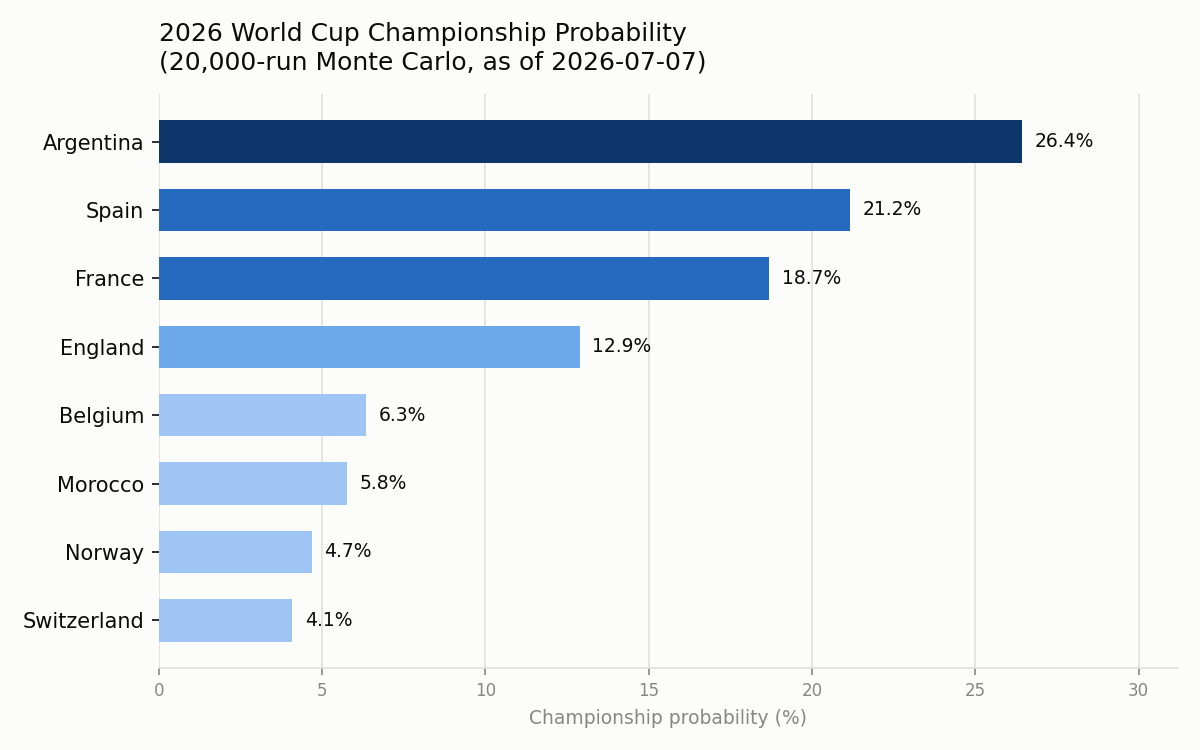
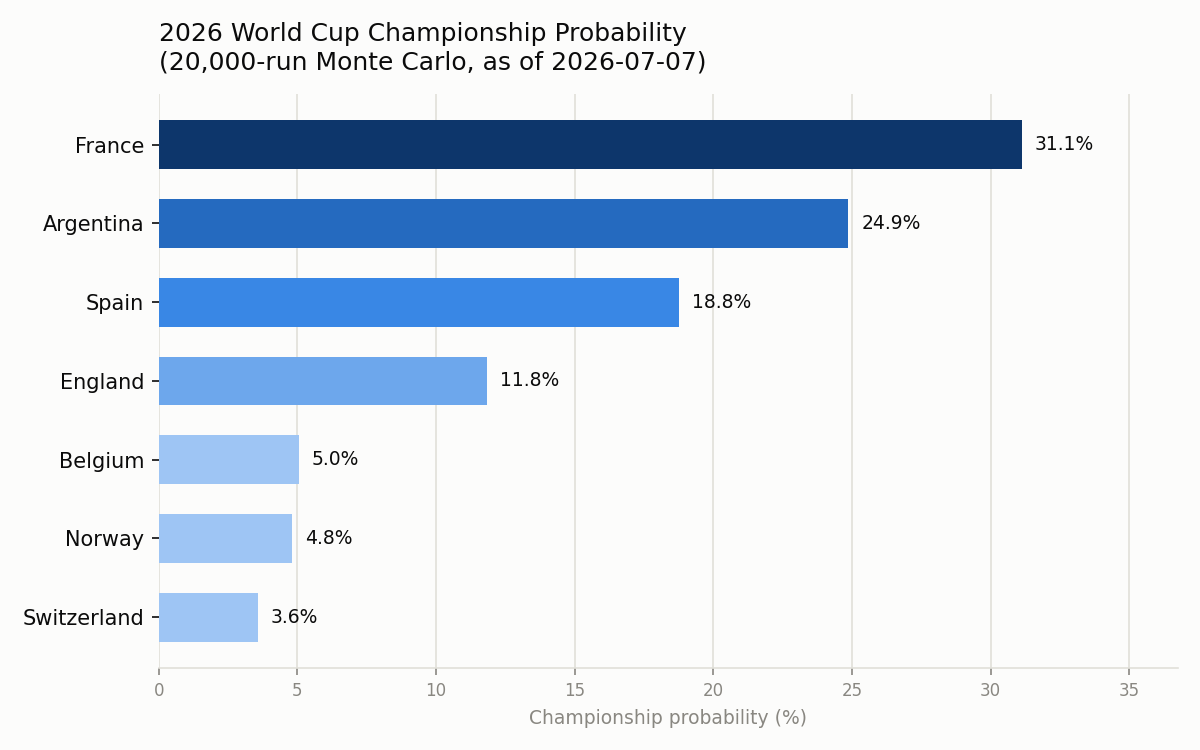
France beats Morocco 2-0, into the semifinal
Mbappe and Dembele scored, France advances to face the Spain/Belgium
winner in Dallas on July 14. Model had France at 63.6 percent before
kickoff, so this one's a correct call. Patched the result in, reran
the pipeline, and reworked the bracket simulation so France's
semifinal slot is locked in while the other three quarterfinals still
get simulated as coin flips.

France is now the championship favorite at 31.1 percent, up from
18.7 before this match, mostly just from clearing a knockout round
that everyone else still has to get through.

diff --git a/src/simulate.py b/src/simulate.py
@@ -3,20 +3,22 @@ Monte Carlo forward simulation of the rest of the 2026 World Cup, using the
 trained model's win probabilities and the confirmed bracket tree.
 
 Bracket confirmed via live web search, cross-checked across ESPN, Fox Sports,
-Olympics.com, Al Jazeera, and CNN. All of the Round of 16 finished on 2026-07-07
-(Switzerland beat Colombia 4-3 on penalties after a 0-0 draw; Argentina beat
-Egypt 3-2). The four quarterfinals below are confirmed matchups, still
-unplayed as of this run:
+FIFA.com, CNN, and NBC News. Status as of this run (2026-07-10):
 
-  QF1 (Boston,  Jul 9):  France     vs Morocco
-  QF2 (LA,      Jul 10): Spain      vs Belgium
-  QF3 (Miami,   Jul 11): England    vs Norway
-  QF4 (KC,      Jul 11/12): Argentina vs Switzerland
+  QF1 (Boston,  Jul 9):  France 2-0 Morocco -- DONE, France advances
+  QF2 (LA,      Jul 10): Spain      vs Belgium     -- pending
+  QF3 (Miami,   Jul 11): England    vs Norway      -- pending
+  QF4 (KC,      Jul 11/12): Argentina vs Switzerland -- pending
 
-  SF1 (Dallas,   Jul 14): Winner QF1 vs Winner QF2
+  SF1 (Dallas,   Jul 14): France vs Winner QF2
   SF2 (Atlanta,  Jul 15): Winner QF3 vs Winner QF4
 
   Final (East Rutherford, Jul 19): Winner SF1 vs Winner SF2
+
+A "slot" below is either a confirmed team name (a string) or a match still to
+be played (a tuple of two team names). Confirmed slots skip straight through;
+pending slots get a coin flip using the model's win probability each
+simulation run.
 
 For a knockout match with no replay, a draw isn't a valid final outcome (it
 goes to extra time/penalties). We convert the model's 3-way (home/draw/away)
@@ -39,12 +41,12 @@ from load_data import load_results, played_mask as pm
 N_SIMULATIONS = 20000
 RNG_SEED = 42
 
-QUARTERFINALS = [
-    ("France", "Morocco"),
-    ("Spain", "Belgium"),
-    ("England", "Norway"),
-    ("Argentina", "Switzerland"),
-]
+SF1_SLOTS = ["France", ("Spain", "Belgium")]
+SF2_SLOTS = [("England", "Norway"), ("Argentina", "Switzerland")]
+
+
+def pending_matches(slots):
+    return [s for s in slots if isinstance(s, tuple)]
 
 
 def win_probability(team_a, team_b, elo, form, model):
@@ -82,20 +84,26 @@ def build_matchup_probabilities(teams, elo, form, model):
     return probs
 
 
-def simulate_bracket(rng, probs, quarterfinals):
-    def play(a, b):
-        return a if rng.random() < probs[(a, b)] else b
+def resolve(rng, probs, slot):
+    if isinstance(slot, str):
+        return slot
+    a, b = slot
+    return a if rng.random() < probs[(a, b)] else b
 
-    qf_winners = [play(a, b) for a, b in quarterfinals]
 
-    sf1 = (qf_winners[0], qf_winners[1])
-    sf2 = (qf_winners[2], qf_winners[3])
-    sf_winners = [play(*sf1), play(*sf2)]
+def simulate_bracket(rng, probs):
+    sf1_teams = [resolve(rng, probs, s) for s in SF1_SLOTS]
+    sf2_teams = [resolve(rng, probs, s) for s in SF2_SLOTS]
+    semifinalists = sf1_teams + sf2_teams
 
-    champion = play(*sf_winners)
+    finalist_1 = resolve(rng, probs, tuple(sf1_teams))
+    finalist_2 = resolve(rng, probs, tuple(sf2_teams))
+    finalists = [finalist_1, finalist_2]
+
+    champion = resolve(rng, probs, tuple(finalists))
     return {
-        "semifinalists": qf_winners,   # reached the semifinal (won their QF)
-        "finalists": sf_winners,       # reached the final (won their SF)
+        "semifinalists": semifinalists,
+        "finalists": finalists,
         "champion": champion,
     }
 
@@ -111,16 +119,24 @@ def main():
         models = pickle.load(f)
     xgb = models["xgb"]
 
-    teams_in_play = set()
-    for a, b in QUARTERFINALS:
-        teams_in_play.add(a)
-        teams_in_play.add(b)
-    remaining_teams = list(teams_in_play)
+    # Every team that could plausibly meet every other team in play (across QF,
+    # SF, and Final matchups) needs a pairwise probability, since who plays whom
+    # in the semifinal and final depends on how the pending quarterfinals resolve.
+    all_teams = set()
+    for slot in SF1_SLOTS + SF2_SLOTS:
+        if isinstance(slot, tuple):
+            all_teams.update(slot)
+        else:
+            all_teams.add(slot)
+    remaining_teams = list(all_teams)
 
-    print("Win probability for the confirmed quarterfinals:")
+    print("Win probability for the confirmed quarterfinals still to be played:")
     probs = build_matchup_probabilities(remaining_teams, elo, form, xgb)
-    for a, b in QUARTERFINALS:
+    for a, b in pending_matches(SF1_SLOTS) + pending_matches(SF2_SLOTS):
         print(f"  {a:12s} vs {b:12s}  ->  {a}: {probs[(a,b)]:.1%}   {b}: {probs[(b,a)]:.1%}")
+    # probs already covers every pair among remaining_teams (built above), which
+    # is what resolve() needs for cross-matchup pairings like France vs whoever
+    # wins Spain/Belgium, since the semifinal opponent isn't fixed in advance.
 
     rng = np.random.default_rng(RNG_SEED)
     champion_counts = defaultdict(int)
@@ -128,7 +144,7 @@ def main():
     semifinalist_counts = defaultdict(int)
 
     for _ in range(N_SIMULATIONS):
-        sim = simulate_bracket(rng, probs, QUARTERFINALS)
+        sim = simulate_bracket(rng, probs)
         champion_counts[sim["champion"]] += 1
         for t in sim["finalists"]:
             finalist_counts[t] += 1
@@ -136,8 +152,8 @@ def main():
             semifinalist_counts[t] += 1
 
     table = []
-    all_teams = set(champion_counts) | set(finalist_counts) | set(semifinalist_counts)
-    for team in all_teams:
+    all_result_teams = set(champion_counts) | set(finalist_counts) | set(semifinalist_counts)
+    for team in all_result_teams:
         table.append({
             "team": team,
             "semifinal_pct": 100 * semifinalist_counts[team] / N_SIMULATIONS,
@@ -154,7 +170,8 @@ def main():
         json.dump({
             "n_simulations": N_SIMULATIONS,
             "rng_seed": RNG_SEED,
-            "confirmed_quarterfinals": QUARTERFINALS,
+            "sf1_slots": [list(s) if isinstance(s, tuple) else s for s in SF1_SLOTS],
+            "sf2_slots": [list(s) if isinstance(s, tuple) else s for s in SF2_SLOTS],
         }, f, indent=2)
     print("\nSaved: results/championship_probabilities.csv, results/simulation_meta.json")
 

diff --git a/src/load_data.py b/src/load_data.py
@@ -23,6 +23,9 @@ Sources for patched results (cross-checked across 2+ independent outlets each):
   Switzerland 0-0 Colombia   - ESPN, Al Jazeera, CNN, NBC News, FIFA.com
                                 (2026-07-07); Switzerland won 4-3 on penalties
                                 and advances to the quarterfinals
+  France 2-0 Morocco         - FIFA.com, ESPN, Fox Sports, CNN, NBC News
+                                (2026-07-09); France advances to face the
+                                Spain/Belgium winner in the semifinal
 """
 import pandas as pd
 
@@ -36,6 +39,7 @@ KNOWN_2026_RESULT_PATCHES = [
     ("2026-07-06", "United States", "Belgium", 1, 4),
     ("2026-07-06", "Argentina", "Egypt", 3, 2),
     ("2026-07-06", "Switzerland", "Colombia", 0, 0),  # won 4-3 on penalties
+    ("2026-07-09", "France", "Morocco", 2, 0),
 ]
 
 # Round of 16 matches decided on penalties: (date, home_team, away_team, shootout_winner).

diff --git a/README.md b/README.md
@@ -10,23 +10,26 @@ First run: July 7, 2026. The final is July 19. This README gets updated as
 real results come in, so you can watch the model get graded live instead of
 taking my word for it.
 
-## Where things stand right now (last updated July 9, 2026)
+## Where things stand right now (last updated July 10, 2026)
 
 The Round of 16 is done. All 16 matches played, including two nail-biters:
 Argentina came back from 2-0 down to beat Egypt 3-2, and Switzerland needed
 penalties to get past Colombia after 120 scoreless minutes.
 
-The quarterfinals are set and none have been played yet:
+The first quarterfinal is also done: **France beat Morocco 2-0** in Boston,
+Mbappé and Dembélé with the goals. France is through to the semifinal in
+Dallas on July 14, where they'll play whoever wins Spain vs Belgium.
 
-- **France vs Morocco**, July 9, Boston
+Three quarterfinals are still to be played:
+
 - **Spain vs Belgium**, July 10, Los Angeles
 - **England vs Norway**, July 11, Miami
 - **Argentina vs Switzerland**, July 11 or 12, Kansas City
 
 Everything below reflects that state. A scheduled job re-runs this whole
-project after the quarterfinals, again after the semifinals, and once more
-after the final, so the numbers keep catching up to reality without me
-manually babysitting it.
+project once the rest of the quarterfinals wrap up, again after the
+semifinals, and once more after the final, so the numbers keep catching up
+to reality without me manually babysitting it.
 
 ## How it actually works
 
@@ -81,12 +84,12 @@ dataset, and guessing randomly among the three outcomes gets you 33.3%. So
 the model is doing real work, just don't expect it to be right every time.
 Football is famously hard to predict, which is most of why it's fun to watch.
 
-### This exact World Cup, 96 matches played (group stage through Round of 16)
+### This exact World Cup, 97 matches played (group stage through the first quarterfinal)
 
 | Model | Accuracy | Log-loss |
 |---|---|---|
-| Logistic regression | 63.5% | 0.854 |
-| XGBoost | **64.6%** | **0.846** |
+| Logistic regression | 63.9% | 0.852 |
+| XGBoost | **64.9%** | **0.844** |
 
 Slightly better than the generic numbers, which is a good sign, not a red
 flag. It means the model isn't just memorizing history, it's picking up on
@@ -95,16 +98,17 @@ tournament. Full match-by-match predictions are in
 [`results/wc2026_backtest_detail.csv`](results/wc2026_backtest_detail.csv) if
 you want to see every call, right and wrong.
 
-Two Round of 16 calls worth calling out honestly: the model correctly picked
+A couple of calls worth flagging honestly: the model correctly picked
 Argentina to beat Egypt, but leaned slightly toward Colombia in a match that
-ended level and went to penalties. Draws are the hardest outcome to call in
-this sport, and this model is no exception.
+ended level and went to penalties. It also correctly called France over
+Morocco, and by a healthy margin (50% vs 24%). Draws are still the hardest
+outcome to predict in this sport, and this model is no exception.
 
 ### Quarterfinal win probabilities
 
-| Match | Model says |
+| Match | Result |
 |---|---|
-| France vs Morocco | France 63.6%, Morocco 36.4% |
+| France vs Morocco | **France won 2-0.** Model had France 63.6% before kickoff. Correct. |
 | Spain vs Belgium | Spain 64.4%, Belgium 35.6% |
 | England vs Norway | England 61.6%, Norway 38.4% |
 | Argentina vs Switzerland | Argentina 72.4%, Switzerland 27.6% |
@@ -115,27 +119,27 @@ this sport, and this model is no exception.
 
 | Team | Reaches semis | Reaches final | Wins it all |
 |---|---|---|---|
-| Argentina | 72.8% | 47.3% | **26.4%** |
-| Spain | 64.7% | 37.3% | 21.2% |
-| France | 63.9% | 33.7% | 18.7% |
-| England | 61.3% | 27.4% | 12.9% |
-| Belgium | 35.3% | 15.0% | 6.3% |
-| Morocco | 36.1% | 14.0% | 5.8% |
-| Norway | 38.7% | 13.6% | 4.7% |
-| Switzerland | 27.2% | 11.7% | 4.1% |
+| France | 100% | 54.4% | **31.1%** |
+| Argentina | 72.6% | 46.9% | 24.9% |
+| Spain | 64.5% | 33.1% | 18.8% |
+| England | 61.8% | 28.0% | 11.8% |
+| Belgium | 35.5% | 12.5% | 5.0% |
+| Norway | 38.2% | 13.7% | 4.8% |
+| Switzerland | 27.4% | 11.4% | 3.6% |
 
 Full numbers in [`results/championship_probabilities.csv`](results/championship_probabilities.csv).
-Argentina is currently the favorite, largely on the strength of their Elo
-rating and a quarterfinal draw against a Switzerland side that's overachieving
-relative to its rating just by being here.
+France jumped to the top of the table simply by winning its quarterfinal.
+That's not the model changing its mind, it's just what happens when a team
+locks in a semifinal spot while everyone else still has a coin flip standing
+between them and the final four.
 
 ## The bracket
 
 ```
-QF1 Boston, Jul 9:     France vs Morocco       -+
-QF2 LA, Jul 10:        Spain vs Belgium        -+- SF1, Dallas, Jul 14 -+
-QF3 Miami, Jul 11:     England vs Norway       -+                      |
-QF4 KC, Jul 11-12:     Argentina vs Switzerland -+- SF2, Atlanta, Jul 15 -+- Final, Jul 19, East Rutherford
+QF1 Boston, Jul 9:     France 2-0 Morocco (FINAL)  -+
+QF2 LA, Jul 10:        Spain vs Belgium            -+- SF1, Dallas, Jul 14 -+
+QF3 Miami, Jul 11:     England vs Norway           -+                      |
+QF4 KC, Jul 11-12:     Argentina vs Switzerland     -+- SF2, Atlanta, Jul 15 -+- Final, Jul 19, East Rutherford
 ```
 
 This gets re-run after the quarterfinals wrap up, again after the
@@ -150,6 +154,7 @@ right or wrong all of this actually was.
 - United States 1-4 Belgium, July 6: [ESPN](https://www.espn.com/soccer/match/_/gameId/760507/belgium-united-states), [NPR](https://www.npr.org/2026/07/06/nx-s1-5883842/2026-world-cup-fifa-usmnt-belgium-round-of-16)
 - Argentina 3-2 Egypt, July 7: [ESPN](https://www.espn.com/soccer/story/_/id/49262413), [NBC News](https://www.nbcnews.com/sports/soccer/live-blog/fifa-world-cup-games-2026-july-7-live-updates-rcna353305)
 - Switzerland 0-0 Colombia (Switzerland won 4-3 on penalties), July 7: [CNN](https://www.cnn.com/2026/07/07/sport/argentina-egypt-colombia-switzerland-world-cup-round-of-16), [Al Jazeera](https://www.aljazeera.com/sports/liveblog/2026/7/7/live-switzerland-vs-colombia-fifa-world-cup-2026)
+- France 2-0 Morocco, July 9: [FIFA.com](https://www.fifa.com/en/match-centre/match/17/285023/289289/400021536), [ESPN](https://www.espn.com/soccer/match/_/gameId/760510/morocco-france), [CNN](https://www.cnn.com/2026/07/09/sport/live-news/france-morocco-world-cup-score)
 - Quarterfinal bracket: [Olympics.com](https://www.olympics.com/en/news/fifa-world-cup-2026-bracket-quarter-finals-full-schedule-live-updates), [Fox Sports](https://www.foxsports.com/stories/soccer/world-cup-bracket-live-quarterfinals-update-standings)
 
 ## Running it yourself